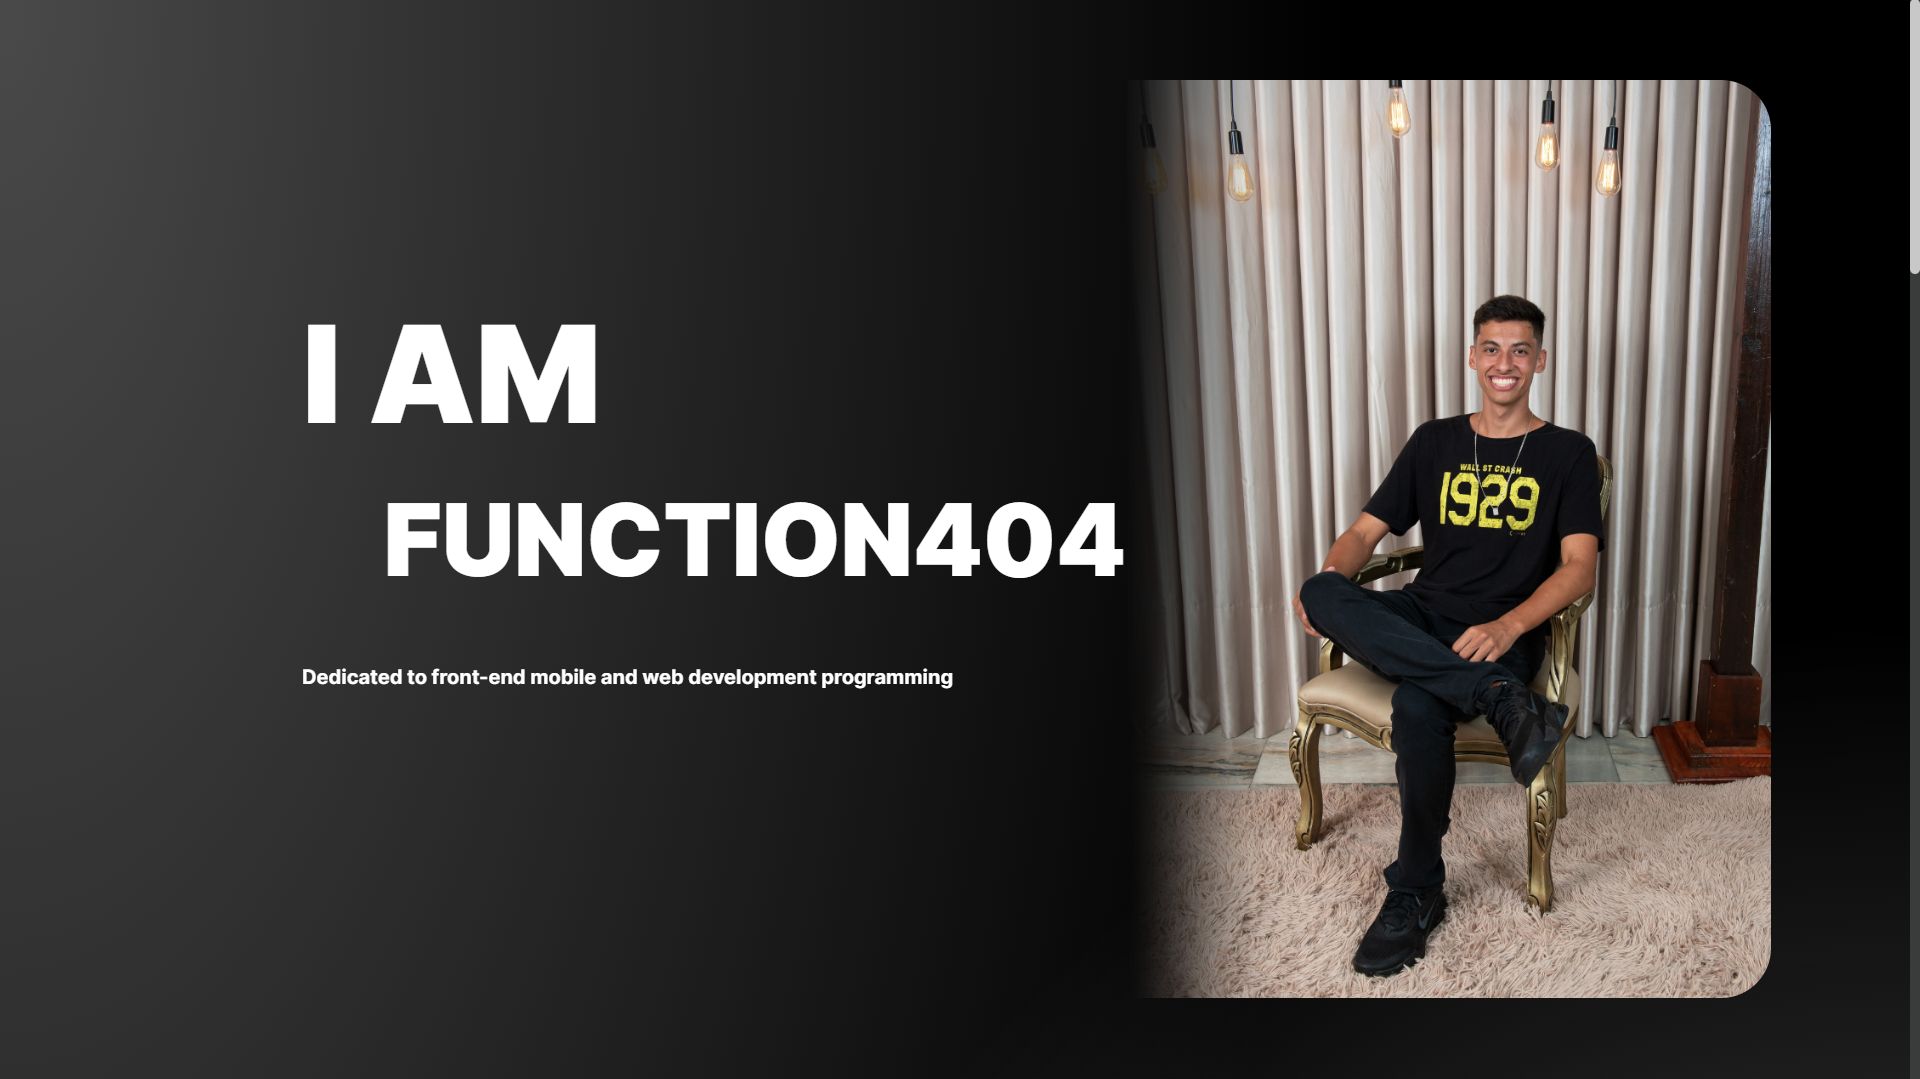
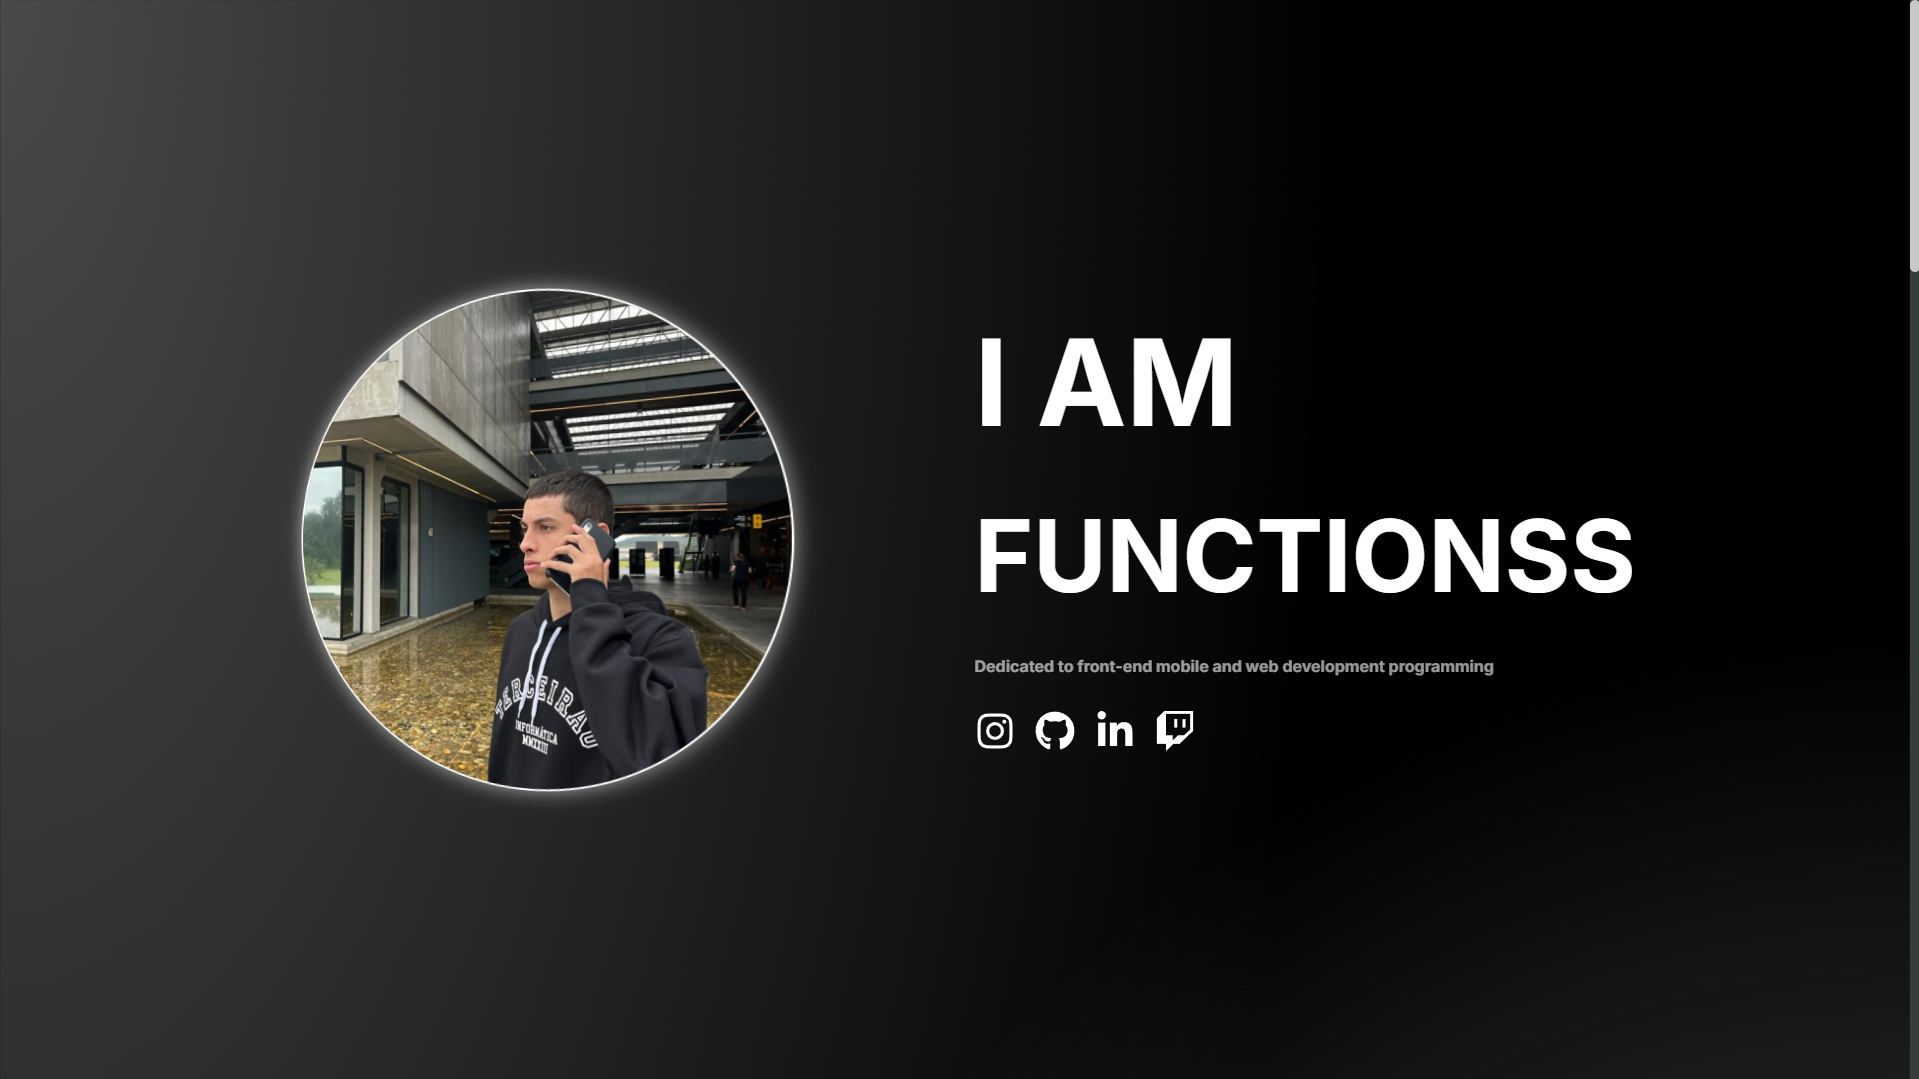
fix: header styles

diff --git a/src/app/container/Header/HeaderContainer.styles.ts b/src/app/container/Header/HeaderContainer.styles.ts
@@ -69,7 +69,11 @@ export const StyledContainer = styled.div`
    height: 100dvh;
 
    @media screen and (max-width: 1024px) {
-      height: auto;
+      height: 100dvh;
+   }
+   
+   @media screen and (max-width: 960px) {
+      height: 100dvh;
    }
 `
 
@@ -79,11 +83,6 @@ export const StyledRow = styled.div`
    justify-content: center;
    width: 100%;
    gap: 15vh;
-   
-   @media screen and (max-width: 1024px) {
-      flex-direction: column;   
-      gap: 0;
-   }
 
    @media screen and (max-width: 960px) {
       flex-direction: column;
@@ -97,11 +96,6 @@ export const StyledContent = styled.div`
    align-items: flex-start;
    justify-content: center;
    padding: 20px;
-
-   @media screen and (max-width: 1024px) {
-      align-items: center;
-      text-align: center;
-   }
 
    @media screen and (max-width: 960px) {
       align-items: center;
@@ -120,7 +114,7 @@ export const StyledContentIcons = styled.div`
    justify-content: center;
    gap: 20px;
    opacity: 0;
-   animation: ${opacity} 0.5s ease-in-out 1.75s forwards;
+   animation: ${opacity} .5s ease-in-out 1.75s forwards;
 `
 
 export const StyledIconA = styled.a<IIconLinkProps>`
@@ -133,7 +127,7 @@ export const StyledIconA = styled.a<IIconLinkProps>`
 `
 
 export const StyledTextOne = styled.p`
-   font-size: 120px;
+   font-size: 100px;
    color: ${colors.colorWhite};
    margin-top: 5px;
    margin-bottom: 5px;
@@ -141,14 +135,14 @@ export const StyledTextOne = styled.p`
    font-weight: bold;
    text-transform: uppercase;
    opacity: 0;
-   animation: ${opacity} 0.01s ease-out 1.75s forwards;
+   animation: ${opacity} .05s ease-out 1.75s forwards;
 
-   @media screen and (max-width: 1024px) {
+   @media screen and (max-width: 1280px) {
       font-size: 72px;
    }
    
    @media screen and (max-width: 960px) {
-      font-size: 56px;
+      font-size: 42px;
       text-align: center;
    }
 `
@@ -159,40 +153,43 @@ export const StyledTextTwo = styled.p`
    font-weight: bold;
    text-transform: uppercase;
    opacity: 0;
-   animation: ${opacity} 0.01s ease-out 1.75s forwards;
+   animation: ${opacity} .05s ease-out 1.75s forwards;
 
-   @media screen and (max-width: 1024px) {
-      font-size: 56px;
+   @media screen and (max-width: 1280px) {
+      font-size: 72px;
       margin-left: 0;
    }
    
    @media screen and (max-width: 960px) {
-      font-size: 36px;
+      font-size: 42px;
       margin-left: 0;
    }
 `
 
 export const StyledTextThree = styled.h4`
+   font-size: 18px;
    color: ${colors.colorLight};
    text-align: left;
    font-weight: bold;
    opacity: 0;
-   animation: ${opacity} 0.01s ease-out 1.75s forwards;
+   animation: ${opacity} .05s ease-out 1.75s forwards;
 
-   @media screen and (max-width: 1024px) {
-      font-size: 24px;
+   @media screen and (max-width: 1280px) {
+      font-size: 16px;
    }
    
    @media screen and (max-width: 960px) {
-      font-size: 1rem;
+      font-size: 14px;
       text-align: center;
    }
 `
 
 export const FlipContainer = styled.div`
-   perspective: 1200px;
+   perspective: 2000px;
    width: 100%;
    height: 100%;
+   opacity: 0;
+   animation: ${opacity} .5s ease-in-out 1.75s forwards;
 `
 
 export const FlipCard = styled.div`
@@ -202,14 +199,14 @@ export const FlipCard = styled.div`
    transform-style: preserve-3d;
    animation: ${flipAnimation} 7s infinite;
 
-   @media screen and (max-width: 1024px) {
-      width: 300px;
-      height: 300px;
+   @media screen and (max-width: 1280px) {
+      width: 350px;
+      height: 350px;
    }
 
    @media screen and (max-width: 960px) {
-      width: 200px;
-      height: 200px;
+      width: 250px;
+      height: 250px;
    }
 `
 

diff --git a/src/app/container/Header/HeaderContainer.tsx b/src/app/container/Header/HeaderContainer.tsx
@@ -23,13 +23,13 @@ import { IconsData } from '^/app/data/Icons/IconsData';
 export default function HeaderContainer() {
    return (
       <>
-         <StyledContainer>
+         <StyledContainer id='header'>
             <StyledRow>
                <StyledContent>
                      <FlipContainer>
                         <FlipCard>
-                           <StyledImg src='/meR.png' front />
-                           <StyledImg src='mee2.png' front={false} />
+                           <StyledImg src='/meone.png' front />
+                           <StyledImg src='metwo.png' front={false} />
                         </FlipCard>
                      </FlipContainer> 
                </StyledContent>
@@ -63,7 +63,7 @@ export default function HeaderContainer() {
                                  color={color}
                                  hoverColor={hoverColor}
                               >
-                                 {icon({size: 40})}
+                                 {icon({size: 35})}
                               </StyledIconA>
                         )
                      })}

diff --git a/src/app/layout.tsx b/src/app/layout.tsx
@@ -22,7 +22,7 @@ export const metadata: Metadata = {
   twitter: {
     site: '@function404',
     card: 'summary_large_image',
-    images: '/meR.png',
+    images: '/meone.png',
   },
   openGraph: {
     title: 'Function404 - Portfolio',
@@ -30,7 +30,7 @@ export const metadata: Metadata = {
     siteName: 'FUNCTION404',
     type: 'website',
     url: 'https://function404.netlify.app/',
-    images: [{ url: '/meR.png' }],
+    images: [{ url: '/meone.png' }],
     countryName: 'Brazil',
     locale: 'pt_BR',
   },

diff --git a/README.md b/README.md
@@ -2,9 +2,9 @@
 
 ## 📢 Informações
 
-- Versão: 4.0.0
+- Versão: 4.0.5
 
-- Última atualização: 8 Set. 2024
+- Última atualização: 9 Set. 2024
 
 ## ℹ Sobre o Projeto
 
